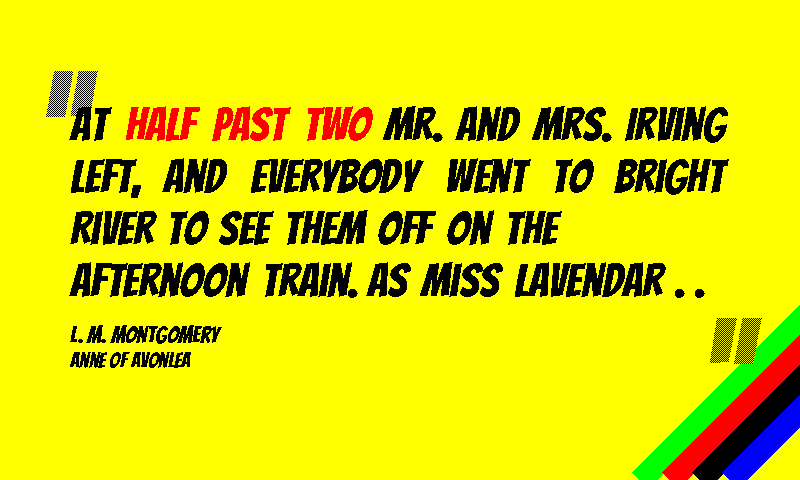
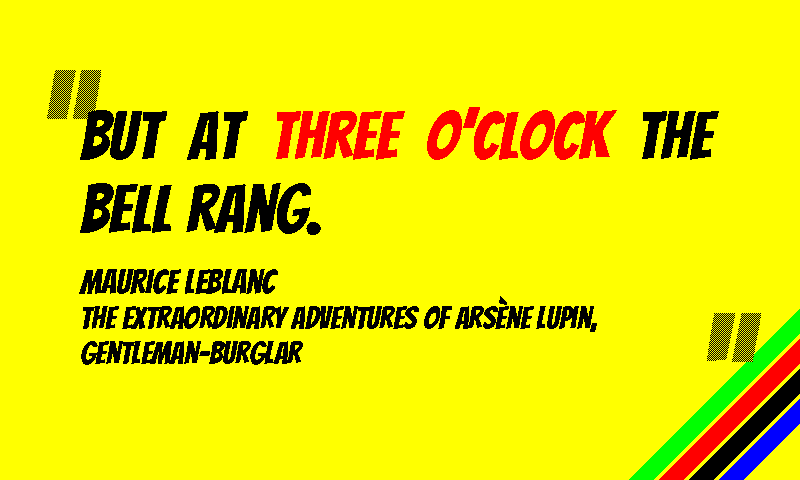
Refresh comic stripe spacing preview

Changed region(s): [[0.0625, 0.1562, 0.9062, 0.7812], [0.7812, 0.6562, 1.0, 1.0], [0.875, 0.6562, 0.9375, 0.6875]]

diff --git a/render_quote.py b/render_quote.py
@@ -1156,43 +1156,42 @@ def draw_comic_corner_stripes(image: Image.Image, colors: dict) -> None:
     quadrant = Image.new("RGB", (qw, qh), color=colors["page_bg"])
     qd = ImageDraw.Draw(quadrant)
 
-    stripe_thickness = 23
-    period = 30
+    stripe_thickness = 19
+    stripe_gap = 11
+    period = stripe_thickness + stripe_gap
     palette = _COMIC_STRIPE_PALETTE
 
     # Bands run with slope -1 (down-and-left): each line passes through
-    # (c, qh) at the sub-image's bottom edge and (c + qh, 0) at the top
-    # edge, so the chevron leans up-and-to-the-right and parallels the
-    # mask hypotenuse. Visible range of c is [-qh, qw]; iterate a touch
-    # wider so rounded line caps still clip cleanly.
-    #
-    # Restrict the painted bands to the same four-stripe window in the
-    # visible ``c`` sequence regardless of render size. For the default
-    # 800×480 canvas this reproduces the historical [240, 330] quartet;
-    # smaller canvases scale to the nearest equivalent stripe indices
-    # instead of dropping the accent entirely.
+    # (c, qh) at the sub-image's bottom edge and would naturally hit
+    # (c + qh, 0) at the top edge. Extend each stripe beyond both bounds
+    # so the painted segment reaches the canvas edge cleanly after PIL's
+    # line-cap rasterisation, while the larger period leaves a deliberate
+    # yellow gap between neighbouring bands.
     stripe_cs = list(range(-qh - period, qw + period + 1, period))
+    keep_count = min(4, len(stripe_cs))
     if qh == 240 and qw == 400:
         kept_indices = {17, 18, 19, 20}
     else:
         default_qh = 240
         default_qw = 400
         default_stripe_cs = list(range(-default_qh - period, default_qw + period + 1, period))
-        default_keep_indices = [
-            idx for idx, c in enumerate(default_stripe_cs)
-            if 240 <= c <= 330
-        ]
+        default_keep_indices = {17, 18, 19, 20}
         target_mid = sum(default_keep_indices) / len(default_keep_indices)
         scale = len(stripe_cs) / len(default_stripe_cs)
         scaled_mid = target_mid * scale
-        keep_start = round(scaled_mid - 1.5)
-        keep_start = max(0, min(keep_start, max(0, len(stripe_cs) - 4)))
-        kept_indices = set(range(keep_start, min(len(stripe_cs), keep_start + 4)))
+        keep_start = round(scaled_mid - (keep_count - 1) / 2)
+        keep_start = max(0, min(keep_start, max(0, len(stripe_cs) - keep_count)))
+        kept_indices = set(range(keep_start, min(len(stripe_cs), keep_start + keep_count)))
 
+    overshoot = max(stripe_thickness, stripe_gap)
     for i, c in enumerate(stripe_cs):
         if i in kept_indices:
             color = palette[i % len(palette)]
-            qd.line([(c, qh), (c + qh, 0)], fill=color, width=stripe_thickness)
+            qd.line(
+                [(c - overshoot, qh + overshoot), (c + qh + overshoot, -overshoot)],
+                fill=color,
+                width=stripe_thickness,
+            )
 
     # 45° right-isoceles triangle mask pinned to the bottom-right of
     # the quadrant. Legs of length qh (the shorter dimension) so the
